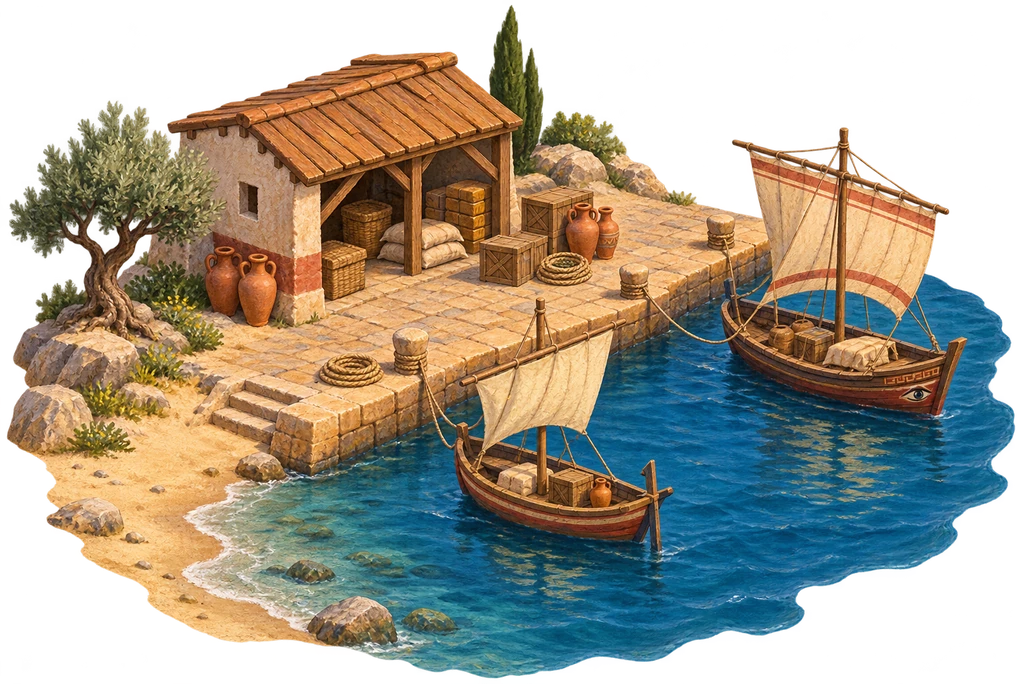
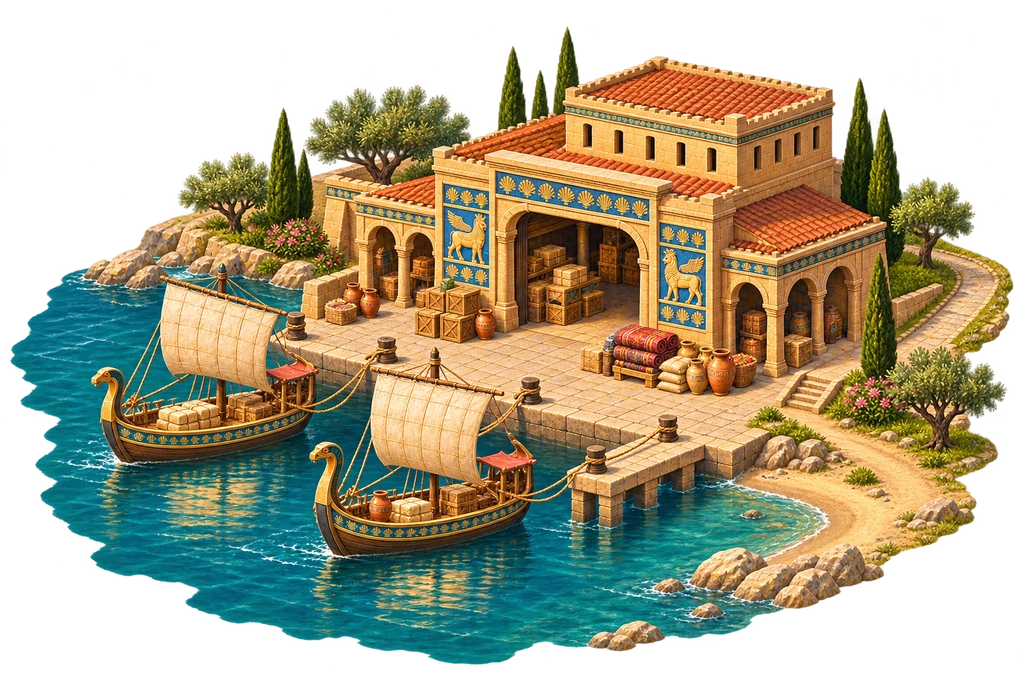
منوهای نسخه ۳، نقشهی جهان ۵، کاروانسراها و بورس تاجران

diff --git a/prompts/world-v5-map-and-icons.md b/prompts/world-v5-map-and-icons.md
@@ -1,0 +1,54 @@
+# نقشهی جهان نسخهی ۵ و آیکونهای نقشه (برای ChatGPT)
+
+## چرا؟
+نقشهی ۴ (دور اول) بهاندازهی نقشهی قبلی (`world-v3.webp`) خوب نبود: شهرها کوچک و پراکنده بودند و سبک عوض شده بود. این بار **نقشهی قبلی همانطور که هست** مبنا است و فقط این چیزها به آن اضافه میشود: غرب دریای مدیترانه با کارتاژ، چند شهر خارجی و سه کاروانسرا. هر چیزی که روی نقشه دیده میشود را خودِ چت میکشد؛ من فقط جایش را میگذارم و هیچ آیکونی را خودم نمیسازم.
+
+## ۱. نقشه
+**فایلهای ورودی که باید به چت بدهی:** `assets/world-v3.webp` (همان نقشهی قبلی، مربع ۱۲۵۴×۱۲۵۴). همان تصویر را ضمیمه کن و بگو سبک و اندازهی شهرها دقیقاً از آن باشد.
+
+**کار:** بوم را به سمت چپ (غرب) ۵۰٪ بزرگ کن (outpaint/expand) تا نسبت تصویر دقیقاً ۳:۲ شود (مثلاً ۱۸۸۱×۱۲۵۴ و بعد ۴۰۹۶×۲۷۳۱). نقشهی قبلی بدون تغییر در ۶۶٪ سمت راست میماند؛ شهرهای سارد و بابل و شوش و پارسه و صور و باختر **همان نقاشیها با همان اندازه** بمانند. ۳۴٪ سمت چپ تازه است.
+
+### چه چیزی تازه کشیده شود
+1. **غرب:** دریای مدیترانهی غربی، ساحل شمال آفریقا و یک بندر بزرگ شبیه سبک شهرهای قبلی (کارتاژ، بندر گرد نظامی)، و یونان با شهر آتن (آکروپولیس). یونان در نقشهی قبلی هم کوچک هست؛ اگر لازم شد کمی بزرگتر شود.
+2. **پانتیکاپایون:** بندر یونانی-سکایی در شمال دریای سیاه.
+3. **گرها:** شهر سفید عربها در ساحل غرب خلیج فارس با نخل.
+4. **پاتالیپوترا:** شهر چوبدیوار هندی کنار رود گنگ در دور شرق.
+5. **سه کاروانسرا** با همان اندازهی شهرهای کوچک قبلی (نه کوچکتر)، هرکدام یک نقاشی مستقل:
+   - کاروانسرای خراسان: حیاط خشتی مربعی با دروازه، شتر و چادر، در فلات خشک شرق (بین شوش و باختر).
+   - کاروانسرای کاپادوکیه: مثل بالا ولی در ارتفاعات سبز آناتولی (بین سارد و بابل).
+   - بندرگاه کوچک ایسوس: اسکلهی سنگی با دو قایق و انبار، روی ساحل (بین سارد و صور).
+6. راهها: مسیر کمرنگ و خاکی راه شاهی (سارد ← کاپادوکیه ← بابل ← شوش)، راه شرق (شوش ← خراسان ← باختر)، راه ساحلی (صور ← ایسوس ← سارد). فقط یک رد کمرنگ، نه خط.
+
+### جای تقریبی (درصد از چپ، درصد از بالای بوم تازه ۳:۲)
+شهرهای قبلی (تقریباً جایی که در تصویر الان هستند، نباید جابهجا شوند): سارد ۴۳٪، ۳۶٪ · صور ۴۷٪، ۴۶٪ · بابل ۵۷٪، ۴۸٪ · شوش ۶۴٪، ۴۹٪ · پارسه ۷۲٪، ۵۶٪ · باختر ۸۱٪، ۳۸٪.
+
+تازهها (تقریبی؛ من بعد از دریافت خودم روی تصویر اندازه میگیرم، پس فقط ترتیب جغرافیایی درست باشد):
+- کارتاژ ۱۰٪، ۴۴٪ (ساحل شمال آفریقا، دور غرب)
+- آتن ۳۸٪، ۳۹٪
+- پانتیکاپایون ۴۹٪، ۱۷٪
+- گرها ۶۴٪، ۵۶٪
+- پاتالیپوترا ۹۵٪، ۵۷٪
+- کاروانسرای کاپادوکیه ۵۰٪، ۳۹٪ · ایسوس ۴۵٪، ۴۲٪ · خراسان ۷۸٪، ۵۰٪
+
+### پرامپت
+> Use the attached image "world-v3" as the exact base. Expand the canvas to the LEFT (west) by 50% so the final image is exactly 3:2, keeping everything in the original image completely unchanged in the right 66%: same painting style, same terrain, same large painted cities at the same size. Extend the western Mediterranean Sea, North Africa coast and Greece in the same hand-painted antique-atlas style (parchment atlas combined with a strategy-game map, soft volumetric light, warm sand-ochre, olive and lapis-blue palette). Add these painted places at the same scale as the existing cities: Carthage (round military harbour, far west on the African coast), Athens (Acropolis, Greece), Panticapaeum (Greek harbour town on the north coast of the Black Sea), Gerrha (white Arab port town with palms on the west shore of the Persian Gulf), Pataliputra (timber-walled Indian city on a wide river at the far east), and three roadside places painted as clearly as cities, not tiny: a mud-brick caravanserai courtyard with gate, camels and tents in the dry plateau between Susa and Bactra; the same in the green Anatolian highlands between Sardis and Babylon; and a small stone harbour with a pier, two moored boats and a warehouse on the coast between Sardis and Tyre. Draw a faint dusty trail along the Royal Road (Sardis, the Anatolian caravanserai, Babylon, Susa), the eastern road (Susa, the plateau caravanserai, Bactra) and the coast road (Tyre, the harbour, Sardis). NO text, NO labels, NO icons, NO compass, NO borders. Leave a little calm ground below each city for the game to print its name. Then output at the largest size available.
+
+بعد از رسیدن تصویر، اگر چت فقط ۱۸۸۱×۱۲۵۴ داد مشکلی نیست؛ من خودم بزرگش و کاشیاش میکنم.
+
+## ۲. آیکونهای رابط که الان ایموجیاند و باید طراحی شوند
+قواعد مشترک: همان سبک بستهی رابط (برنز و طلا، لاجورد، رنگهای گرم، قاب باستانی هخامنشی)، **بدون متن و عدد**، شفاف، WebP، ۹۶×۹۶ (جز مواردی که نوشته شده)، هرکدام زیر ۱۰ کیلوبایت. مسیر: `ui/icon/`.
+
+برای «دکان من» (خلاصهی مالی):
+1. `coin.webp` صندوق (سکهی دریک)  2. `networth.webp` ثروت خالص (ترازو یا نمودار رو به بالا روی لوح)  3. `stock.webp` موجودی انبار (کیسه و کوزه)  4. `caravan.webp` کاروان (شتر با بار)  5. `house.webp` خانه  6. `deposit.webp` سپرده (صندوقچهی برنزی)  7. `debt.webp` بدهی (لوح گلی با مهر قرمز)  8. `farm.webp` زمین و کارگاه (خوشهی گندم و چکش)
+
+برای شهر و کاروانسرا:
+9. `market.webp` بازار (غرفه با پارچهی راهراه)  10. `bourse.webp` بورس تاجران (دو دست در حال دستدادن روی لوح)  11. `lock.webp` قفل برنزی (شهر قفلشده، ۶۴×۶۴)  12. `home-star.webp` ستارهی شهر خانگی (ستارهی هشتپر زرین، ۶۴×۶۴)  13. `host.webp` صاحب کاروانسرا (پرترهی گرد یا نماد جام و چراغ)
+
+برای تاجران بورس:
+14. چهار پرترهی تاجر، ۵۱۲×۵۱۲ با قاب گرد، سبک پرترههای قبلی (`ui/people/`): `trader-persian.webp` (پارسی)، `trader-greek.webp` (یونانی)، `trader-semitic.webp` (بابلی یا فنیقی)، `trader-sogdian.webp` (سغدی یا سکایی). من آنها را بین ۲۰ نام پخش میکنم.
+
+پرامپت نمونه (برای هر ردیف نام و ابعاد را جایگزین کن):
+> A small UI icon for a game, hand-painted ancient Achaemenid Persian style: bronze and gold with lapis accents, warm muted palette, thin dark outline, subtle shading. Subject: {موضوع}. Exactly {96×96} pixels, transparent background, centered with a little padding, NO text, NO numbers, NO letters. Consistent with the existing Derik UI pack (HUD, tabs, buttons).
+
+## ۳. بعد از رسیدن فایلها من چه میکنم
+نقشه را جایگزین میکنم، شهرها و کاروانسراها را روی جای واقعیشان میگذارم، کاشیبندی میکنم و همهی ایموجیهای رابط را با آیکونهای تازه عوض میکنم. تا آن موقع نقشهی قبلی (v3) فعال است و کاروانسراها و شهرهای خارجی از بازی پنهاناند.

diff --git a/prompts/ui-menus-v3.md b/prompts/ui-menus-v3.md
@@ -1,0 +1,51 @@
+# طراحی دوبارهی کل منوها (دور سوم، برای ChatGPT)
+
+## مشکل
+منوهای فعلی صاف و سادهاند: یک صفحهی کاغذی بژ با قاب نازک و چند گوشهی کوچک. حس «بازی» نمیدهد، شبیه یک فرم است. نقشه و شهرها پر از جزئیات نقاشیاند و منو کنارشان بیروح میماند. میخواهیم منو هم مثل نقشه نقاشیشده و با شکوه باشد (حس یک لوح یا دفتر دیوان شاهی هخامنشی)، ولی خوانا بماند.
+
+## قواعد مشترک (همهی فایلها)
+- هویت: دیوان شاهی هخامنشی. چوب و چرم تیره، قاب برنزی و زرین، نقش ردیف نیلوفر و گلرز پرسپولیسی، سرستون گاو بالدار در گوشهها، رنگ لاجورد و عقیق بهعنوان تأکید. گرم و غنی، نه سرد و مدرن.
+- **بدون هیچ متن و عدد داخل تصویر.** متن را بازی میگذارد، راستچین.
+- **خوانایی (مهمترین قاعده):** سطحهایی که متن روی آناند فقط دو نوع باشند. یا «روشن»: کاغذ پاپیروس بژ بسیار روشن (رنگ نزدیک #F3ECDD) که متن تیره (#2B2118) روی آن بخوانیم. یا «تیره»: چرم یا چوب خیلی تیره (نزدیک #3A2A1E) که متن روشن (#FFF6E0) روی آن بخوانیم. **هیچجا رنگ میانه** (کرم پررنگ، نارنجی کمرنگ، سبز کمرنگ) برای سطح متن نباشد، چون هر رنگ متنی روی آن ناخوانا میشود.
+- وسط سطحها ساده و تخت (بافت خیلی ملایم) تا متن روی آن واضح بماند؛ تزیین فقط در قاب و گوشه و لبه.
+- WebP با پسزمینهی شفاف. قابهای کشیدنی ۹تکه (nine-slice): لبه و گوشه ثابت، وسط ساده. برای هر قاب مقدار برش (slice) را در یک `nine-slice.json` بنویس. حجم هر قاب حداکثر ۱۲۰ کیلوبایت. **سرعت بارگذاری مهم است**؛ سطح تخت و تکرارپذیر از تصویر پرجزئیات بهتر است.
+
+## فایلهای لازم (مسیر `ui/menu/`)
+**۱. قاب اصلی پنل** (جایگزین `ui/sheet/panel.webp`)
+- `panel-frame.webp` — ۹۶۰×۹۶۰ (۹تکه، برش ۱۲۰ از هر طرف). قاب برنزی-زرین ضخیم با ردیف نیلوفر روی لبهی بالا، گوشههای تزیینی بزرگ (گاو بالدار یا ستون)، داخل کاملاً سادهی «روشن» (کاغذ). لبهی بالای قاب مثل بالای یک لوح باشد.
+- `panel-frame-dark.webp` — همان قاب ولی داخل «تیره» (چرم تیره) برای پنجرههای شبانه مثل بورس و فرمان شاه.
+
+**۲. سربرگ پنل**
+- `header-band.webp` — ۹۶۰×۱۴۴ (برش چپ و راست ۸۰): نوار عنوان، تیره با خط زرین و دو تزیین کنار؛ وسط خالی برای عنوان روشن. سمت چپ جای دکمهی بستن.
+- `close.webp` — ۹۶×۹۶: دکمهی گرد بستن (ضربدر زرین روی برنز).
+
+**۳. تبها**
+- `tab-on.webp` و `tab-off.webp` — ۲۸۸×۹۶ (برش ۳۲): تب فعال (برنز روشن/زرین، متن تیره) و غیرفعال (چرم تیره، متن روشن). هر دو **متنخوان**: فعال «روشن»، غیرفعال «تیره».
+
+**۴. دکمهها** (۳۸۴×۹۶، برش ۴۰)
+- `btn-primary.webp` — اصلی: برنز-نارنجی پررنگ، متن سفید. `btn-secondary.webp` — ثانویه: کاغذ روشن با قاب برنزی، متن تیره. `btn-danger.webp` — خطر/رد: آجری تیره، متن سفید. `btn-disabled.webp` — غیرفعال: خاکستری-قهوهای مات (متن را بازی کمرنگ میکند).
+
+**۵. کارت و ردیف**
+- `card.webp` — ۶۴۰×۳۲۰ (برش ۴۸): کارت داخل پنل، روشن با قاب نازکتر از قاب اصلی.
+- `row-a.webp` و `row-b.webp` — ۹۶۰×۸۰ (فقط افقی، برش چپ و راست ۳۲): ردیفهای متناوب، هردو «روشن» (تفاوتشان فقط کمی است)، خط ظریف پایین.
+- `row-hot.webp` — همان با حاشیهی زرین (بهترین قیمت).
+
+**۶. اجزای کوچک**
+- `divider.webp` — ۷۶۸×۳۲: جداکنندهی نیلوفری.
+- `ribbon.webp` — ۷۶۸×۱۲۰ (برش ۲۴ از بالا و پایین، ۷۲ از چپ و راست): روبان سرتیتر بخش، **تیره** با لبهی زرین، متن روشن.
+- `chip-green.webp`, `chip-beige.webp`, `chip-red.webp` — ۲۸۸×۹۶ (برش ۴۸ چپ و راست): کپسول قیمت. هر سه **روشنتر از متن تیره** یا **تیرهتر از متن روشن**، اما نه میانه: پیشنهاد: سبز خیلی روشن، بژ خیلی روشن، صورتی خیلی روشن.
+- `tag-a.webp`, `tag-b.webp` — ۲۵۶×۷۲: برچسب «تولیدی» (سبز خیلی روشن) و «پرتقاضا» (نارنجی خیلی روشن)؛ هر دو روشن، متنشان تیره.
+- `field.webp` — ۲۸۸×۹۶: جای عدد، **تیره** (حفرهی فرورفته)، متن روشن.
+- `scroll-track.webp` و `scroll-thumb.webp` — ۳۲×۲۵۶: ریل و دستهی نوار کشیدن، برنزی و باریک.
+
+**۷. پسزمینهی پشت پنل**
+- `dim-pattern.webp` — ۵۱۲×۵۱۲ تکرارپذیر (seamless)، خیلی کمکنتراست، نقش ملایم روی تیره، برای پردهی نیمهشفاف پشت منوهای تمامصفحه.
+
+## پرامپت نمونه (برای هر فایل نام و ابعاد را عوض کن)
+> A UI skin piece for a game, hand-painted ancient Achaemenid Persian royal-court style (Persepolis): dark carved wood and leather, thick bronze and gold frames, lotus-and-rosette frieze, winged-bull capital corner ornaments, lapis and carnelian accents, warm rich palette. Create "{نام}" at exactly {W×H} pixels, transparent background, designed as a 9-slice (fixed corners and edges, flat plain centre). The centre surface must be either very light papyrus (about #F3ECDD) for dark text, or very dark leather (about #3A2A1E) for light text: never a mid-tone. NO text, NO numbers, NO letters. Consistent with the existing Derik UI pack.
+
+## اولویت اگر وقت کم بود
+۱) `panel-frame` و `header-band` ۲) `tab-on/off` و دکمهها ۳) `row-a/b` و `card` ۴) بقیه.
+
+## بعد از رسیدن
+فایلهای قبلی را عوض میکنم؛ اندازهی برش را از `nine-slice.json` میخوانم و همهی رنگهای متن را طبق نوع سطح (روشن یا تیره) تنظیم میکنم.
